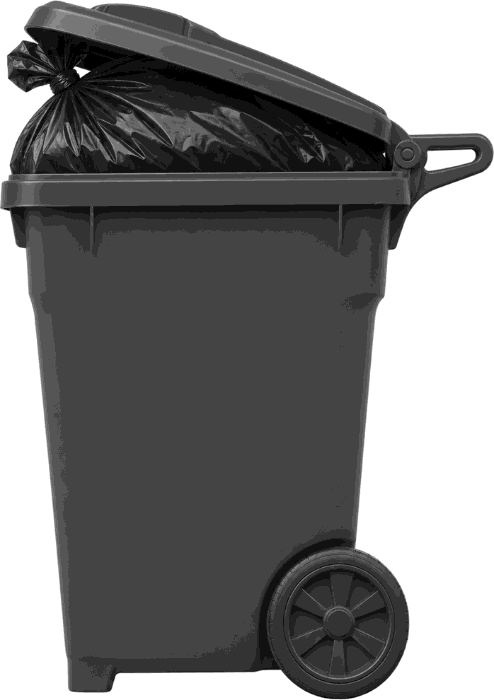
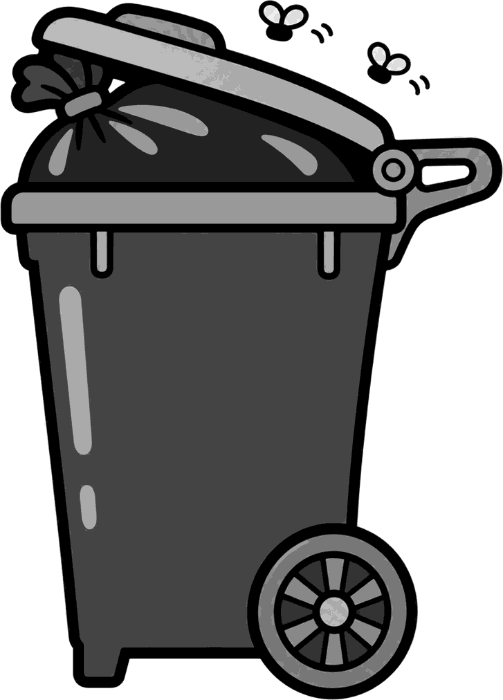
feat: draw the Collectes bins in the How to dress style
The bins are now drawings: thick black outlines and flat grays for the
16-gray Device, same side view (wheel and handle at the back). The pale
copies go: the quiet days show a sentence instead.

diff --git a/plugins/collectes/images/prompt.md b/plugins/collectes/images/prompt.md
@@ -1,25 +1,18 @@
 Generate exactly two images with your built-in image generation tool, one call per image, and save them as PNG files in this folder:
 
-- `raw/ordures.png`
-- `raw/recyclage.png`
+- `raw-dessin/ordures.png`
+- `raw-dessin/recyclage.png`
 
-Both images are for a 16-gray e-ink display that a family with young kids reads from across the room. They must look like a matching pair: same bin model, same camera, same scale, same position.
+Use the attached reference images:
+- `raw/ordures.png` and `raw/recyclage.png`: the exact bins to draw. Keep their pose, proportions and content: pure side view, the handle and the single big wheel at the back (right), a small foot at the front (left), the lid hinged on the handle side. Ordures: dark bin, overfull, a tied black bag lifting the lid. Recyclage: light bin, lid open, cardboard box, plastic bottle and tin can sticking out, recycling arrows on the side.
+- `refs/style-how-to-dress*.png`: the drawing style to match. A friendly hand-drawn illustration for kids: thick, smooth black outlines (about 3 % of the image width), rounded shapes, flat fills, no photo texture.
 
-Shared requirements for both images:
-- Photorealistic product-style render of a residential wheelie bin (a ~240 L city wheeled cart, like the ones in Montréal), seen exactly from the side (pure profile, no perspective tilt).
-- The handle and the two wheels are on the RIGHT side only (the handle side). On the left (the front), the bin rests on a small molded foot, no wheels there. The lid is hinged on the handle side.
+Style requirements for both images:
+- Illustration, not a photo: thick black outlines around every shape, clean flat areas of gray.
+- Grayscale only, made for a 16-gray e-ink display: use several distinct flat grays for shading (light side, shadow side, highlights), from white to near black, never smooth photographic gradients, no noise, no grain.
 - Square 1024×1024 canvas, pure white background (#FFFFFF), no floor, no cast shadow, no text, no logo, no watermark.
-- The bin is centered and fills about 90 % of the canvas height.
-- Rendered in grayscale only, with strong contrast and clear edges so it stays readable on e-ink.
-
-Image 1, `raw/ordures.png` (garbage):
-- The bin plastic is dark charcoal gray.
-- The bin is overfull: a tied black garbage bag bulges out of the top and lifts the front of the lid, which stays hinged at the handle side.
-
-Image 2, `raw/recyclage.png` (recycling):
-- The bin plastic is light gray (a green recycling bin rendered in light gray).
-- The lid is fully open, swung back over the handle side.
-- A flattened cardboard box, a plastic bottle and a tin can stick out of the top.
-- A large recycling symbol (three chasing arrows) is molded on the side of the bin.
+- The bin is centered and fills about 90 % of the canvas height. Both images are a matching pair: same bin shape, same scale, same position.
+- Ordures: the bin is dark gray; the black bag is near black with a few light-gray highlight shapes. Add one or two small cartoon flies above it.
+- Recyclage: the bin is light gray; the recycling symbol is a darker gray molded on the side.
 
 When both files exist, reply with their paths and nothing else.
